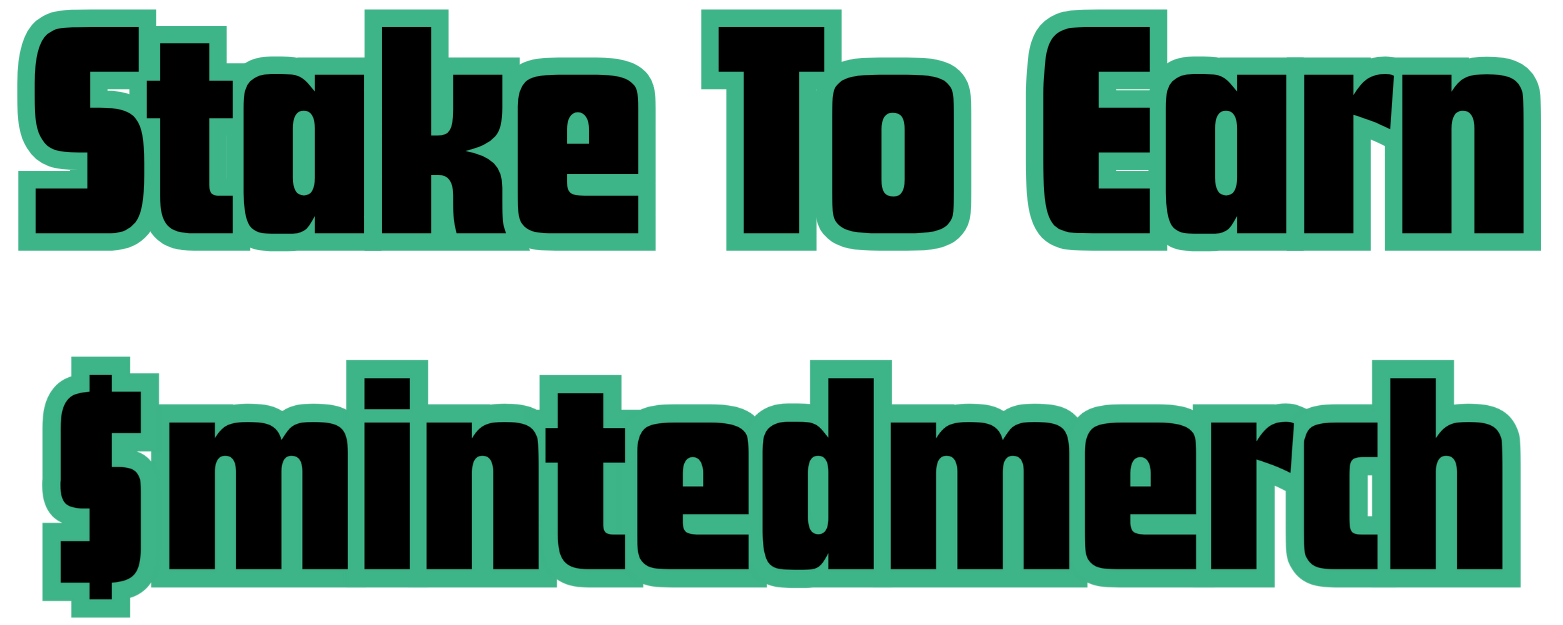
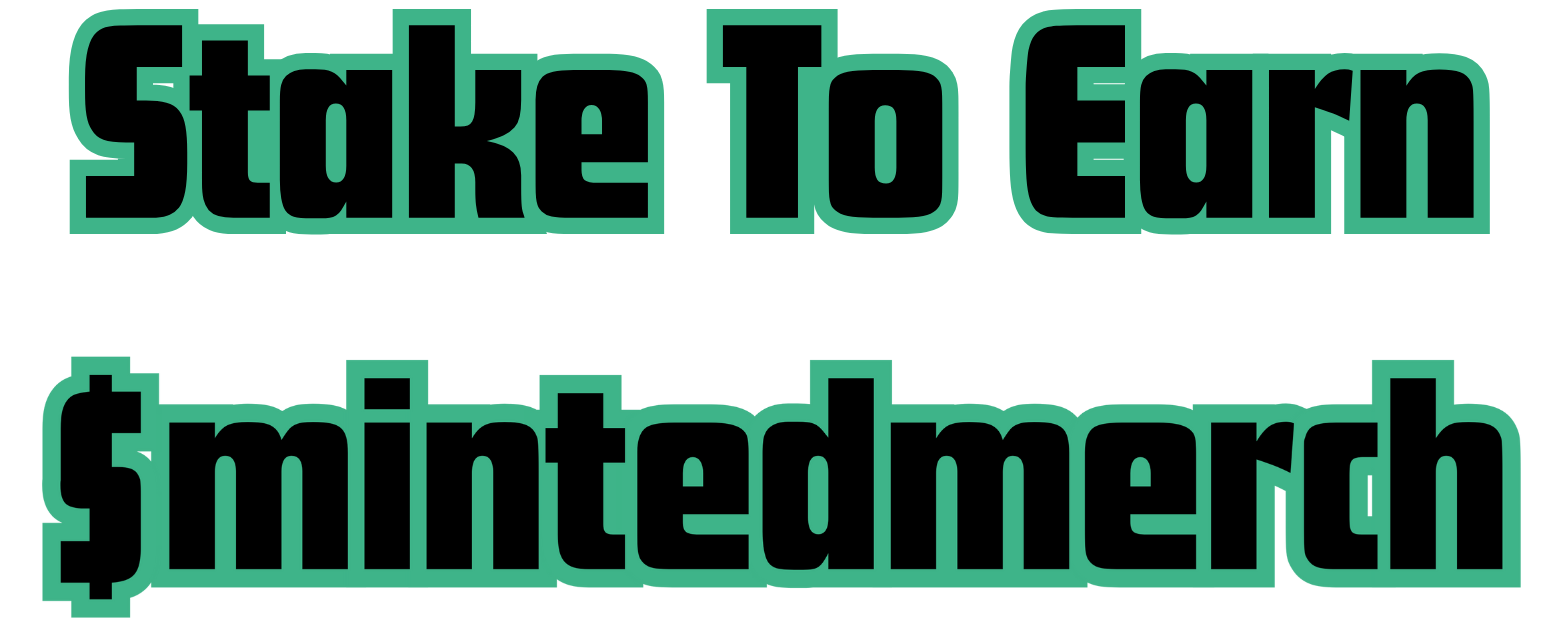
Update image + reduce bottom padding inside staking card
1. Swapped StakeToEarnMintedMerch.png with new version
2. Reduced bottom padding inside card (24px → 12px) below Powered By text
3. Restored marginBottom: 20px between sections

Changed region(s): [[0.0, 0.0, 1.0, 0.4256]]

diff --git a/src/app/stake/StakePageClient.jsx b/src/app/stake/StakePageClient.jsx
@@ -211,8 +211,8 @@ Stake your tokens now and Spin-to-Claim daily to compound rewards, have a chance
         backgroundColor: 'rgba(62, 180, 137, 0.1)',
         border: '2px solid #3eb489',
         borderRadius: '16px',
-        padding: '24px',
-        marginBottom: '10px'
+        padding: '24px 24px 12px 24px',
+        marginBottom: '20px'
       }}>
         {/* Title with combined image */}
         <div style={{
